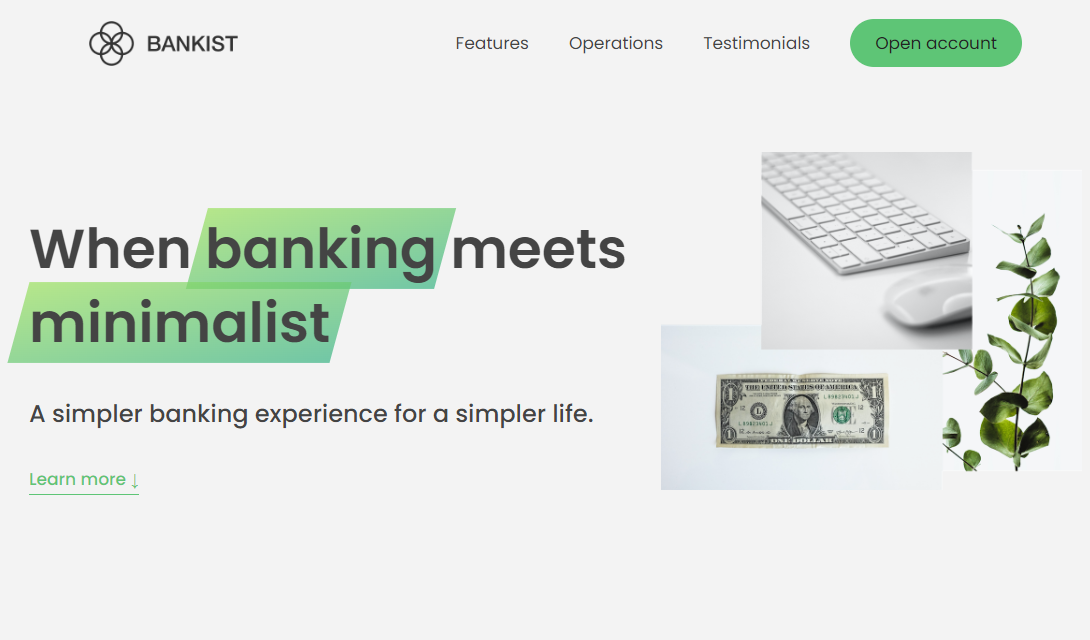
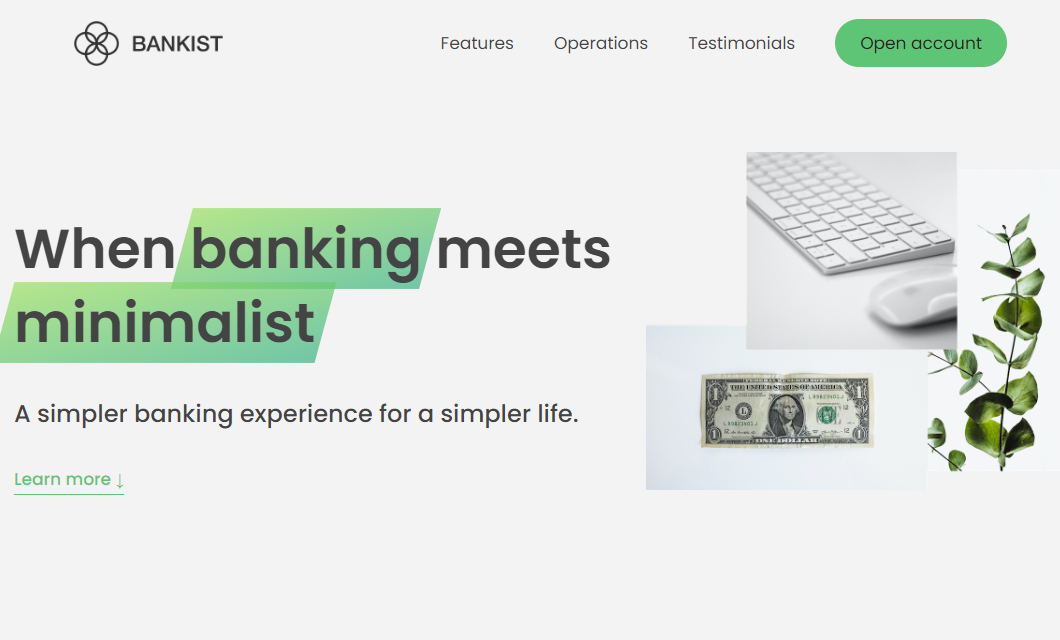
section 4 made responsive
outcome is pretty good than expected

diff --git a/style.css b/style.css
@@ -634,15 +634,28 @@ body {
   background-size: cover;
   background-repeat: no-repeat;
   z-index: 1;
+  /* background-color: rgba(0, 0, 0, 0.85); */
+  background-blend-mode: multiply;
+  background-position: inherit;
 }
 .row__img-1 {
-  background-image: url("img/work-1.PNG");
+  background-image: url("img/work-1.PNG"),
+    linear-gradient(
+      to right,
+      rgba(16, 119, 147, 0.352) 0%,
+      rgba(16, 119, 147, 0.352) 100%
+    );
 }
 .row__img-2 {
-  background-image: url("img/work-2.PNG");
+  background-image: url("img/work-2.PNG"),
+    linear-gradient(
+      to right,
+      rgba(16, 119, 147, 0.352) 0%,
+      rgba(16, 119, 147, 0.352) 100%
+    );
 }
 
-.row__img-shadow {
+/* .row__img-shadow {
   height: 100%;
   width: 100%;
   background-color: var(--color-shadow);
@@ -651,9 +664,15 @@ body {
   top: 0;
   left: 0;
   transition: all 0.3s ease-in-out;
+  display: none;
+} */
+.row__img-1:hover {
+  background-image: url("img/work-1.PNG"),
+    linear-gradient(to right, transparent 0%, transparent 100%);
 }
-.row__img-shadow:hover {
-  background-color: transparent;
+.row__img-2:hover {
+  background-image: url("img/work-2.PNG"),
+    linear-gradient(to right, transparent 0%, transparent 100%);
 }
 
 .row__content {
@@ -934,6 +953,42 @@ body {
 }
 
 @media (max-width: 1050px) {
+  /* work section */
+
+  .row {
+    display: block;
+    margin: 10rem 0;
+  }
+  .row__img {
+    background-size: contain;
+    transform: scale(1.1);
+    background-position: center;
+  }
+
+  .row__img-1 {
+    background-image: url("img/work-1-dark.png");
+  }
+  .row__img-2 {
+    background-image: url("img/work-2-dark.png");
+  }
+
+  .row_img-box {
+    width: 100%;
+  }
+
+  .row__img-box {
+    position: relative;
+  }
+  .row__content {
+    position: absolute;
+    top: 40%;
+    left: 46%;
+    transform: translate(-50%, -50%);
+    z-index: 1000;
+  }
+  .row__content-box {
+    width: 100% !important;
+  }
   .about__container {
     flex-direction: column;
     gap: 9rem;
@@ -959,9 +1014,31 @@ body {
     font-size: 50%;
     /* 8.5px */
   }
+  .header__container--mail {
+    right: 3rem;
+  }
+  .header__container--links {
+    left: 4rem;
+  }
 }
 
 @media (max-width: 900px) {
+  .row__content {
+    top: 50%;
+    left: 50%;
+  }
+  .row__img-box {
+    margin-right: 4rem;
+  }
+  .row {
+    padding-right: 10rem;
+    padding-left: 4rem;
+    margin: 5rem 0;
+  }
+  .row-reverse {
+    padding-right: 6rem;
+    padding-left: 4rem;
+  }
   .skills {
     display: flex;
     flex-direction: column;
@@ -980,6 +1057,9 @@ body {
 @media (max-width: 750px) {
   html {
     font-size: 40%;
+  }
+  .work {
+    margin-left: 7.3rem;
   }
   .about__text-paragraph {
     max-width: 55ch;
@@ -1029,6 +1109,28 @@ body {
 }
 
 @media (max-width: 700px) {
+  .row__content {
+    top: 49%;
+    left: 50%;
+  }
+  .row {
+    padding-right: 0;
+    padding-left: 0;
+    margin-bottom: 5rem;
+  }
+  .row-reverse {
+    margin-left: 0;
+    padding-right: 0;
+    padding-left: 0;
+    margin-bottom: 6rem;
+  }
+  .row__img {
+    transform: scale(1);
+  }
+  .row__img-box {
+    margin-right: 0;
+    height: 320px;
+  }
   .header__container--links,
   .header__container--mail {
     display: none;
@@ -1039,6 +1141,13 @@ body {
 }
 
 @media (max-width: 562px) {
+  .row__img {
+    background-position: left;
+    background-size: cover;
+  }
+  .row__content {
+    width: 90%;
+  }
   .underline-on-hover:hover::after {
     width: 0%;
   }
@@ -1085,6 +1194,9 @@ body {
 }
 
 @media (max-width: 340px) {
+  .work {
+    margin-left: 6rem;
+  }
   .header__container--content h1 {
     font-size: 4rem;
     padding-left: 0;
@@ -1121,8 +1233,17 @@ body {
 }
 
 @media (max-width: 280px) {
+  .work {
+    margin-left: 4rem;
+  }
   .header__content {
-    margin-left: 6rem;
+    margin-left: 4rem;
+  }
+  .about {
+    margin-left: 1.3rem;
+  }
+  .skills {
+    margin-left: 4rem;
   }
   .scrolldown {
     font-size: 1.4rem;

diff --git a/index.html b/index.html
@@ -283,7 +283,7 @@
             <strong style="display: block">
               Hightlights
             </strong>
-          <ul style="color:var(--color-primary);list-style: none;">
+          <ul style="color:#8892b0;list-style: none;">
             <li>fading-images, custom slides,</li>
             <li>section-reveal on scroll,</li>
             <li>custom smoothvar(--color-primary)crolling.</li>

diff --git a/script.js b/script.js
@@ -48,7 +48,7 @@ window.addEventListener("load", function () {
     });
     document.querySelector(".list-icon").classList.remove("hidden");
     section3.classList.remove("hidden");
-    // section4.classList.remove("hidden");
+    section4.classList.remove("hidden");
     // section5.classList.remove("hidden");
     // error.classList.remove("hidden");
 
